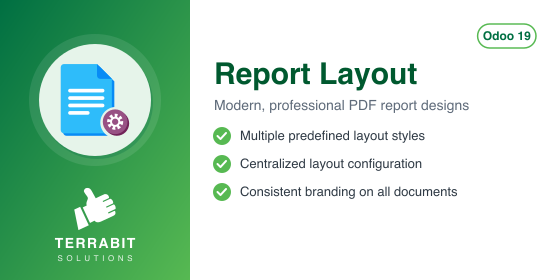
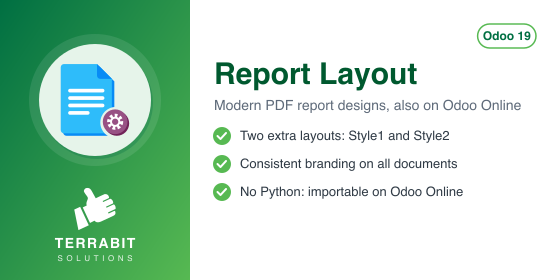
[IMP] deltatech_report_layout: say "Odoo Online" on the Apps Store
Odoo Apps does not mark data-only modules as available on Odoo Online:
the module page has to say it. The name becomes "Report Layout
(importable, Odoo Online)", the summary and the banner mention it, and
index.html is regenerated with the tb-gen-index change from
dhongu/terrabit-pre-commit-hooks#3: hosting badge "Odoo Online • Odoo.sh
• On-premise", plus the Odoo Online section and the usage steps added in
the previous PR.

Assisted-by: Claude Opus 5.5

diff --git a/deltatech_report_layout/static/description/index.html b/deltatech_report_layout/static/description/index.html
@@ -5,11 +5,11 @@
     <span class="d-inline-block rounded-4 p-2 flex-shrink-0 my-2" style="background-color:#ffffff;margin-right:24px;"><img src="icon.png" alt="Report Layout" style="width:80px;height:80px;border:none;"/></span>
     <div class="flex-grow-1 my-2" style="width:320px;min-width:0;margin-right:24px;">
       <h1 class="fw-bold mb-2" style="color:#ffffff;font-size:36px;line-height:1.1;letter-spacing:-0.5px;border:none;">Report Layout</h1>
-      <p class="mb-3" style="font-size:18px;color:#cdeccf;line-height:1.45;">Modern, professional PDF report designs</p>
+      <p class="mb-3" style="font-size:18px;color:#cdeccf;line-height:1.45;">Modern PDF report designs, also on Odoo Online</p>
       <div>
         <span class="d-inline-block rounded-pill fw-bold me-2 mb-2" style="background-color:#ffffff;border:1px solid #ffffff;color:#006F42;padding:6px 14px;font-size:12px;">Odoo 19.0</span>
         <span class="d-inline-block rounded-pill fw-semibold me-2 mb-2" style="border:1px solid #8fd1ad;color:#ffffff;padding:6px 14px;font-size:12px;">Manufacturing</span>
-        <span class="d-inline-block rounded-pill fw-semibold me-2 mb-2" style="border:1px solid #8fd1ad;color:#ffffff;padding:6px 14px;font-size:12px;">Odoo.sh &bull; On-premise</span>
+        <span class="d-inline-block rounded-pill fw-semibold me-2 mb-2" style="border:1px solid #8fd1ad;color:#ffffff;padding:6px 14px;font-size:12px;">Odoo Online &bull; Odoo.sh &bull; On-premise</span>
         <span class="d-inline-block rounded-pill fw-semibold me-2 mb-2" style="border:1px dashed #8fd1ad;color:#ffffff;padding:6px 14px;font-size:12px;">OPL-1</span>
       </div>
     </div>
@@ -30,6 +30,11 @@
     <a class="nav-link active fw-semibold rounded-pill border" id="tb-tab-overview"
        data-bs-toggle="pill" data-bs-target="#tb-panel-overview" href="#tb-panel-overview"
        style="padding:10px 22px;">Overview</a>
+  </li>
+  <li class="nav-item mx-1 mb-2">
+    <a class="nav-link fw-semibold rounded-pill border" id="tb-tab-usage"
+       data-bs-toggle="pill" data-bs-target="#tb-panel-usage" href="#tb-panel-usage"
+       style="padding:10px 22px;">Usage</a>
   </li>
   <li class="nav-item mx-1 mb-2">
     <a class="nav-link fw-semibold rounded-pill border" id="tb-tab-versions"
@@ -65,17 +70,52 @@
 </ul>
 </li>
 </ol>
-<h1 class="fw-bold mt-4 mb-3" style="border:none;border-left:4px solid #57B952;padding-left:16px;font-size:24px;letter-spacing:-0.3px;line-height:1.2;">Usage</h1>
+<h1 class="fw-bold mt-4 mb-3" style="border:none;border-left:4px solid #57B952;padding-left:16px;font-size:24px;letter-spacing:-0.3px;line-height:1.2;">Odoo Online</h1>
+<p>The module contains no Python code, only views, report templates and styles. Besides
+Odoo.sh and on-premise installations, it can be used on Odoo Online (Custom plan):
+download the zip and load it from <strong>Apps &gt; Import Module</strong>.</p>
+</div>
+<div class="tab-pane fade py-2" id="tb-panel-usage" style="font-size:16px;line-height:1.65;color:#212529;font-weight:400;">
+<h2 class="fw-bold mb-3" style="border:none;border-left:4px solid #57B952;padding-left:16px;font-size:24px;letter-spacing:-0.3px;line-height:1.2;">Usage</h2>
 <ol>
-<li>Navigate to <strong>Settings &gt; General Settings</strong>.</li>
-<li>Locate the <strong>Document Layout</strong> section.</li>
-<li>Choose one of the new layout styles provided by the module (e.g., <strong>Style 1</strong> or <strong>Style 2</strong>).</li>
-<li>Preview and save the settings.</li>
-<li>All future reports (Invoices, Sales Orders, etc.) will now use the selected customized layout.</li>
+<li>Go to <strong>Settings &gt; General Settings</strong> and, in the <strong>Companies</strong> section, click
+   <strong>Configure Document Layout</strong>.</li>
+<li>Under <strong>Layout</strong>, the two new layouts, <strong>Style1</strong> and <strong>Style2</strong>, are listed below the standard
+   ones. Select <strong>Style1</strong>: the preview shows a sample invoice with the logo on the left and the
+   company address aligned to the right.</li>
 </ol>
+<p><img class="img-fluid d-block" style="max-width:100%;height:auto;" alt="Configure your document layout dialog with Style1 selected under Layout and the invoice preview on the right" src="en/01_macheta_style1.png" /></p>
+<ol start="3">
+<li>Select <strong>Style2</strong>: the company address sits next to the logo, and the table header and the total
+   use the primary color of the company. Change the colors under <strong>Colors</strong> if needed, then click
+   <strong>Continue</strong> to save.</li>
+</ol>
+<p><img class="img-fluid d-block" style="max-width:100%;height:auto;" alt="Configure your document layout dialog with Style2 selected; the table header and the Total row use the primary color" src="en/02_macheta_style2.png" /></p>
+<ol start="4">
+<li>Print any document of the company (quotation, invoice, delivery slip). It uses the selected
+   layout:</li>
+</ol>
+<p><img class="img-fluid d-block" style="max-width:100%;height:auto;" alt="Header and footer of a document printed with Style1: logo on the left, company address on the right" src="en/03_document_style1.png" /></p>
+<p><img class="img-fluid d-block" style="max-width:100%;height:auto;" alt="Header and footer of a document printed with Style2: company address next to the logo, centered footer" src="en/04_document_style2.png" /></p>
 </div>
 <div class="tab-pane fade py-2" id="tb-panel-versions" style="font-size:16px;line-height:1.65;color:#212529;font-weight:400;">
 <h2 class="fw-bold mb-3" style="border:none;border-left:4px solid #57B952;padding-left:16px;font-size:24px;letter-spacing:-0.3px;line-height:1.2;">Versions</h2>
+<h2 class="fw-bold mt-4 mb-3" style="border:none;border-left:4px solid #57B952;padding-left:16px;font-size:24px;letter-spacing:-0.3px;line-height:1.2;">19.0.1.1.1 (2026-11-08)</h2>
+<ul>
+<li>Odoo Apps does not mark data-only modules as available on Odoo Online, so the module name,
+  the summary, the banner and the Apps Store page now say it: "Report Layout (importable,
+  Odoo Online)".</li>
+</ul>
+<h2 class="fw-bold mt-4 mb-3" style="border:none;border-left:4px solid #57B952;padding-left:16px;font-size:24px;letter-spacing:-0.3px;line-height:1.2;">19.0.1.1.0 (2026-11-08)</h2>
+<ul>
+<li>Data-only module: the empty <code class="border rounded px-2" style="font-family:ui-monospace,SFMono-Regular,Menlo,Consolas,monospace;font-size:13px;">__init__.py</code> was removed, so the module has no Python
+  code at all. It can be installed on Odoo Online (Custom plan) as a zip from
+  Apps &gt; Import Module, as well as on Odoo.sh and on-premise.</li>
+<li>Consultant sheet (readme/FISA_CONSULTANT.md), USAGE.md and screenshots; the usage steps moved
+  from DESCRIPTION.md to USAGE.md.</li>
+<li>The report styles are listed one by one in the manifest assets: an imported module
+  does not accept wildcards (<code class="border rounded px-2" style="font-family:ui-monospace,SFMono-Regular,Menlo,Consolas,monospace;font-size:13px;">**/*</code>) in asset paths.</li>
+</ul>
 <h2 class="fw-bold mt-4 mb-3" style="border:none;border-left:4px solid #57B952;padding-left:16px;font-size:24px;letter-spacing:-0.3px;line-height:1.2;">19.0.1.0.2 (2026-10-16)</h2>
 <ul>
 <li>Development status raised from Beta to Production/Stable: the module has been in

diff --git a/deltatech_report_layout/__manifest__.py b/deltatech_report_layout/__manifest__.py
@@ -2,9 +2,9 @@
 # See README.rst file on addons root folder for license details
 
 {
-    "name": "Report Layout",
-    "summary": "Customized report layouts ",
-    "version": "19.0.1.1.0",
+    "name": "Report Layout (importable, Odoo Online)",
+    "summary": "Two extra PDF report layouts; data-only, importable on Odoo Online",
+    "version": "19.0.1.1.1",
     "author": "Terrabit, Dorin Hongu",
     "website": "https://www.terrabit.ro",
     "license": "OPL-1",

diff --git a/deltatech_report_layout/readme/HISTORY.md b/deltatech_report_layout/readme/HISTORY.md
@@ -1,3 +1,9 @@
+## 19.0.1.1.1 (2026-11-08)
+
+- Odoo Apps does not mark data-only modules as available on Odoo Online, so the module name,
+  the summary, the banner and the Apps Store page now say it: "Report Layout (importable,
+  Odoo Online)".
+
 ## 19.0.1.1.0 (2026-11-08)
 
 - Data-only module: the empty `__init__.py` was removed, so the module has no Python
